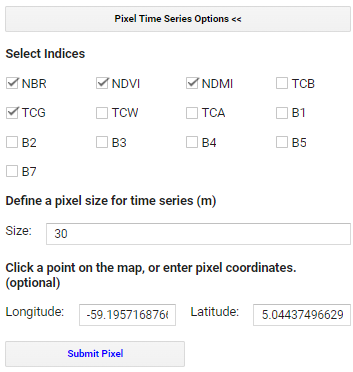
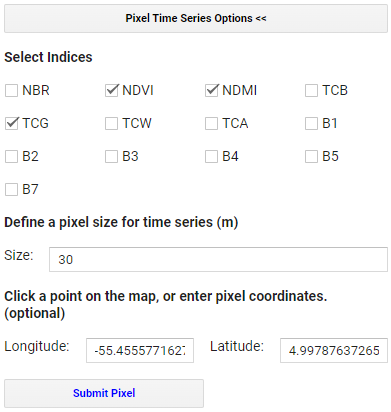
LandTrendr continued

diff --git a/change-detection-2/02_LandTrendrGUI.md b/change-detection-2/02_LandTrendrGUI.md
@@ -5,15 +5,15 @@ parent: "Advanced Google Earth Engine - Change Detection 2"
 nav_order: 2
 ---
 
-# TITLE HERE
+# Explore the LandTrendr GUI
 
 1. Go to the `SurinameWS` repository ([https://code.earthengine.google.com/?accept_repo=users/ebihari/SurinameWS](https://code.earthengine.google.com/?accept_repo=users/ebihari/SurinameWS)), and open the folder named **LandTrendr App - Suriname version**. 
 2. In this folder, open the script named **LandTrendr App - Data Visualization and Download**. 
 3. Run this script.  In a few seconds, the LandTrendr GUI should load right there in GEE.
 
-*Tip: A video showing basic orientation to the GUI is here: [https://youtu.be/tdpuxV7Ad8g](https://youtu.be/tdpuxV7Ad8g).*
-
 # LandTrendr GUI
+
+*Tip: A video showing basic orientation to the GUI is here: [https://youtu.be/tdpuxV7Ad8g](https://youtu.be/tdpuxV7Ad8g).*
 
 The LT GUI (graphical user interface) consists of three panels: 
 
@@ -25,4 +25,203 @@ The LT GUI (graphical user interface) consists of three panels:
 
 Using the expanding menus in the Control Panel, the user sets parameters for the LandTrendr runs, displays images and maps in the center panel, or generates charts in the reporting panel. Expanding windows are controlled by clicking on the double-arrows next to each heading:
 
-<img align="center" src="../images/change-detection-2/LT_optionsbutton.png" hspace="15" vspace="10" width="300">
+<img align="center" src="../images/change-detection-2/LT_dropdownbutton.png" hspace="15" vspace="10" width="300">
+
+# Set LandTrendr options
+
+*Tip: A video showing the LandTrendr options is here: [https://youtu.be/TNQOdHIg24s](https://youtu.be/TNQOdHIg24s).*
+
+You can update the input parameters for the algorithm by expanding the `LandTrendr Options` menu of the GUI.  Many of the values have been pre-set arbitrarily, but you can adjust them for your region. Full parameters descriptions are [here](https://github.com/wespestad/MRV/blob/9380035aff6fd7b65dc8b28bb28ae3e9f4deff3d/Modules_2/change_detection_landtrendr_v3.md#353-exploring-impacts-of-the-fitting-parameters).
+
+For example, after experimentation, TCW (Tasseled Cap Wetness) was found to be an index that works well in Nepal’s environments. 
+
+The date range choice is one of the more important choices in the LandTrendr implementation process. The user must balance the goal of using images in times of year when clear observations are most likely against the goal of finding the change of interest. 
+
+The index choice is also important, as this is what will be analyzed by LandTrendr to find changes.  Here is a description of the indices you can choose from:
+
+<img align="center" src="../images/change-detection-2/index_descriptions.png" hspace="15" vspace="10" width="700">
+
+Here are descriptions of some of the other parameters:
+
+* *Max Segments*: Set to 8. With about 30 possible years of data, eight segments is still appropriate, as it is well under the 3:1 ratio rule of thumb.
+
+* *Spike Threshold*: Keep at 0.9. This parameter can have some effect when there are noisy trajectories, but it may not need to be changed until after we view the impacts of changing the date range. Setting it to 1.0 allows all spikes to be kept, while lower values remove some sharp features that may be noise.
+
+* *Vertex Count Overshoot*: Keep at 3. This parameter rarely needs to change.
+
+* *Prevent One Year Recovery*: Set to "false". This is an aggressive parameter that does what it suggests - it prevents one-year recovery segments. However it is more generally useful to tune the recovery using the next parameter - the Recovery Threshold.
+
+* *Recovery Threshold*: Set to 0.5. Lower numbers disallow very quick recoveries, but in tropical regions quick vegetative recovery after disturbance is the norm. 0.5 is a moderate value and dampens the impacts of noise. A value of 1 would allow all details in the recovery pattern to be seen, but can also lead to overfitting of noise and artifacts.
+
+* *p-value Threshold*: Keep at 0.05. However, if we note that the fits are not tracking somewhat noisy source data, this value could  be relaxed to 0.15. Increasing the p-value threshold allows fits to be captured that retain more residual noise after fitting.
+
+* *Best model Proportion*: Keep at 0.75. When set to a value less than 1.0, this parameter allows more complicated fits to be chosen even if they do not have the best p-value. In practice, this parameter rarely has large impacts.
+
+* *Min Observations needed*: Keep at 6.
+
+* *Image IDs to exclude*: Leave blank unless you completed the optional High-Quality Landsaty Image selector tool.
+
+<img align="center" src="../images/change-detection-2/parameter_values.png" hspace="15" vspace="10" width="250">
+
+Set the `LandTrendr Options` parameters to the following:
+
+<img align="center" src="../images/change-detection-2/LandTrendrOptions.png" hspace="15" vspace="10" width="300">
+
+# Set Asset Overlay options
+
+First, we load a study area for the analysis. The LandTrendr algorithms are computationally intensive and take some time to run. For training purposes, it is useful to constrain our analysis to a relatively small geographic domain.
+
+If you want to add in your own AOI - in the Control Panel, select the `Asset Overlay Options` menu, and enter these values:
+
+1. In the first box of the `Define file path to an asset` section, enter the path to your AOI asset, or a smaller sample area.
+2. In the first box of the `Define Layer Name` section, enter a name that you will recognize when it appears in the layers of the map.
+3. Near the bottom, click the check-box that makes the first layer one to use to constrain later analyses.
+4. Click on the `Add asset to map`.
+
+Alternatively, you can draw a polygon or create a buffer around a point later in `RGB Change Options`.
+
+However, for this exercise, we will use the LandTrendr GUI to create an AOI around a point of interest in Suriname in `RGB Change Options`.  For now, leave `Asset Overlay Options` as is:
+
+<img align="center" src="../images/change-detection-2/AssetOverlayOptions.png" hspace="15" vspace="10" width="300">
+
+# Explore pixel-level time series
+
+*Tip: A video showing point mode operation is here: [https://youtu.be/RdQvxTbi37E](https://youtu.be/RdQvxTbi37E)*
+
+The simplest starting way to understand LandTrendr is to apply the algorithms in point mode. This allows you to visualize how LandTrendr fitting works, and how changing your settings can change the fit. 
+
+To access the point-mode (on the pixel level), open the `Pixel Time Series Options` menu. You should see a window something like this:
+
+<img align="center" src="../images/change-detection-2/LT_pixeloptions.png" hspace="15" vspace="10" width="400">
+
+You can either click on a point on the map and wait patiently, or type coordinates and then click on the `Submit Pixel` button. You can view charts for multiple indices at the same point by checking more than one `Select Indices` box.  
+
+Set the `Pixel Time Series Options` parameters to the following:
+
+<img align="center" src="../images/change-detection-2/PixelTimeSeriesOptions.png" hspace="15" vspace="10" width="300">
+
+Orient yourself to the layout and meaning of the components of the chart below. 
+
+<img align="center" src="../images/change-detection-2/LT_indexgraph.png" hspace="15" vspace="10" width="600">
+
+The core interpretation is the difference between the grey line and the red line.
+
+The grey line represents the trajectory of the observed (measured) spectral values for the pixel. The values are extracted from image collections with properties that define the date window and years of the collection.  We refer to these as the **"source"** spectral values. They bounce around from year to year because of subtle changes in the atmosphere, the timing of image acquisition, etc.
+
+The red line shows what the algorithms decided was the best temporal segmentation through those observed values. This is a function of the fitting parameters of the segmentation model. We refer to these as the **"fitted"** spectral values.
+
+The goal with these plots is to determine if:
+1. The trajectory of the source values captures the processes you believe are occuring at the surface
+2. The fitted values adequately capture the overall "shape" of the trajectory of the source values.
+
+<img align="center" src="../images/change-detection-2/LT_pixeloutput.png" hspace="15" vspace="10" width="300">
+
+As you can see, the differences between the different spectral indices are notable, as they respond to vegetation changes differently and some indices are better for detecting change in certain environments than others.
+
+# Explore RGB change composite images
+
+*Tip: A video showing the RGB tool is here: [https://youtu.be/VSeia3NRa3c](https://youtu.be/VSeia3NRa3c)*
+
+While the point mode is the only way to fully understand and evaluate the source and fitted values, it is an inefficient way to explore larger spatial patterns. We can happen upon pixels where the source values indicate a problem with the imagery, or where the fitting parameters are likely not chosen appropriately, but such findings happen by chance. It would be handy to have a quick visual tool to scan the landscape and evaluate trends and potential problems.
+
+The RGB visualization tool in the LandTrendr GUI is designed to quickly evaluate spatial patterns of spectral fitting by the algorithm. In this tool, we run LT across many pixels, and then show images of the LT-fitted values across pixels, with different years of fitted imagery in the red, green, and blue colors on the screen. With awareness of the years being displayed and the properties of the spectral values being rendered, it is possible to interpret spatial patterns in the RGB images in terms of their land cover change processes, or problems with the imagery or fitting.
+
+Open the `RGB Change Options` menu in the GUI. 
+
+<img align="center" src="../images/change-detection-2/LT_RGBoptions.png" hspace="15" vspace="10" width="600">
+
+This `RGB Change Options` section will be used later to calculate changes over time. The value for Red should be your first year of your time period of interest, Blue your last year, and Green somewhere in between. 
+
+Remember how we skipped the `Asset Overlay Options` and are actually creating an AOI from a buffer around a point of interest in Suriname. The point we have chosen in Suriname should already be loaded in the GUI in the `Latitude` and `Longitude` fields, with a 2.5km buffer to create the AOI in the `Buffer` field. Alternatively, you can draw a polygon by selecting `Draw Option`.
+
+Set the `RGB Change Options` parameters to the following. You can change these fields if you wish, but keep the AOI small to reduce processing time:
+
+<img align="center" src="../images/change-detection-2/RGBChangeOptions.png" hspace="15" vspace="10" width="300">
+
+Click on `Add RGB Imagery`, and wait patiently. It may take a minute to fully load the area we have chosen.  The Index selected in the `LandTrendr Options` menu will be what is shown in the RGB change image.
+
+<img align="center" src="../images/change-detection-2/LT_AOI.png" hspace="15" vspace="10" width="600">
+
+How do we interpret the colors? Following [additive color theory](https://en.wikipedia.org/wiki/Additive_color), we can figure out when disturbance and recovery occured between our three years of interest.
+
+Let's assume we are working with an index such as NBR, TCW, or NDVI where high values indicate more vegetation and low values indicate less vegetation. First, let's consider an area with no colors - an area that is black, white or some grey tone in between. If an area is some shade of black to white, it means that the trajectory of spectral values is stable across the years. In the schematic below, the black horizontal lines are three different pixel trajectories, all perfectly flat (i.e. stable across time):
+
+<img align="center" src="../images/change-detection-2/RGB_spectralindex1.png" hspace="15" vspace="10" width="600">
+
+A couple of other variants are commonly seen and worth learning:
+
+**Yellow/Green pixel:**
+
+If there was a disturbance between the green and blue years, that means the index will be high in both red and green values, but low in blue. This would result in a yellow color on the map.
+
+<img align="center" src="../images/change-detection-2/RGB_spectralindex2.png" hspace="15" vspace="10" width="600">
+
+**Red pixel:**
+
+If the disturbance occurred before the green year and did not see much recovery by the blue year, we would have high values mostly in red, resulting in a red color on the map.
+
+<img align="center" src="../images/change-detection-2/RGB_spectralindex3.png" hspace="15" vspace="10" width="600">
+
+**Purple pixel:**
+
+If the disturbance occurred before the green and there was recovery by the time of the blue year, we would have high values in both red and blue, making some shade of purple or magenta on the map.
+
+<img align="center" src="../images/change-detection-2/RGB_spectralindex4.png" hspace="15" vspace="10" width="600">
+
+**Cyan pixel:**
+
+If an area sees consistent growth in vegetation across all years, it will have relatively low red, higher green, and highest blue values, making some shade of cyan or blue on the map.
+
+<img align="center" src="../images/change-detection-2/RGB_spectralindex5.png" hspace="15" vspace="10" width="600">
+
+**Brown/Orange pixel:**
+
+If there is persistent decline in vegetation over the full time period, red will be highest, followed by green and then blue,  making some shade of brown or orange on the map.
+
+<img align="center" src="../change-detection-2/RGB_spectralindex6.png" hspace="15" vspace="10" width="600">
+
+# Interpret color from RGB change images using the pixel-level time series
+
+These color rules can be somewhat abstract until you see them in action. The LandTrendr GUI gives us the chance to do that: use the RGB color map to select pixels and plot them in the pixel-level mode. First, double check that your RGB image has loaded into the map view. Then, on the Control menu on the left, re-select the `Pixel Time Series Options` menu. As a reminder, the index selected in the `LandTrendr Options` menu will be what is shown in the RGB change image, but you can select any index to show alongside the map in the pixel-level time series.
+
+Now, you can click around in the RGB image to see what pixels look like in different areas of the image.  This use of the RGB viewer combined with the pixel-plotter helps us assess both spatial and temporal patterns. 
+
+The exact colors present on the RGB map will not always mean the same exact thing, since they capture the relative values of the indeces in the 3 years of interest.  You need to look at how the individual pixels change over time to get more a better idea of exactly when changes occured and how drastic they were.
+
+Clicking on different colored pixels, try to look at the index trajectories and create a narrative for what could have happened during the time periods of interest.  For example, when/where was forest cleared, when/where was forest left to grow, and when/where may have other more complex land use changes happened (e.g. forest was cleared for a crop which was later harvested)?  Also look at the overall patterns you see - it is pretty clear where forest clearing began and expanded to, and where regrowth or planting happened after forest clearing.
+
+**Yellow/Green pixel:**
+
+<img align="center" src="../images/change-detection-2/LT_RGBpixel_greenexample.png" hspace="15" vspace="10" width="600">
+
+**Red pixel:**
+
+<img align="center" src="../images/change-detection-2/LT_RGBpixel_redexample.png" hspace="15" vspace="10" width="600">
+
+**Purple pixel:**
+
+<img align="center" src="../images/change-detection-2/LT_RGBpixel_purpleexample.png" hspace="15" vspace="10" width="600">
+
+**Cyan pixel:**
+
+<img align="center" src="../images/change-detection-2/LT_RGBpixel_cyanexample.png" hspace="15" vspace="10" width="600">
+
+**Brown/Orange pixel:**
+
+<img align="center" src="../images/change-detection-2/LT_RGBpixel_brownexample.png" hspace="15" vspace="10" width="600">
+
+Here, the spatial patterns of the disturbance areas are consistent with the underlying landscape pattern, lending credibility to the detection of actual change. Moreover, the source data in the pixel trajectories, while noisy, appear to be consistent with the signal of disturbance.
+
+# Identify problems in the data
+
+*You may, however, see problems with the data - for example, areas where there is a fair amount of purple "striping". The following image is an example from another AOI displaying NBR index charts with such striping.*
+
+<img align="center" src="../images/change-detection-2/LT_RGBgraph.png" hspace="15" vspace="10" width="600">
+
+*Examining only the top and bottom spectral trajectories, the source imagery appears to show drops in spectral value that are persistent over more than one year and may appear to be real. However, with the RGB viewer, we can see that the spatial pattern is disjunct with the underlying landscape (not shown in the figure above, but it is forested). Moreover, the pattern of disturbance appears to be regular and horizontally linear.*
+
+*The spatial pattern of these artifacts is suggestive of the Landsat 7 scan line error pattern - a problem where roughly-horizontal slices of the Landsat 7 imagery are not recorded. Note that the problem is not, in fact, with the Landsat 7 images, but the fact that they have no data in these areas and are allowing an underlying Landsat 8 or Landsat 5 image with cloud problems to show through! Nevertheless, the summary interpretation here is that this region has persistent cloudiness that is not being captured by the default cloud mask algorithms. Hovering over the chart itself and examining the grey source data, you can inspect which years of data are missing. Data is often be missing when clouds are present.*
+
+*What is the solution? The key thing to realize here is that the persistent cloudiness is happening within the window of the season that we are using to build the image collections! Thus, the best option is to examine and change the window of time for the image collections.*
+
+We now finished exploring the functionalities of LandTrendr.  Continue to the next section for exporting and evaluating map products from LandTrendr.

diff --git a/change-detection-2/04_Challenges.md b/change-detection-2/04_Challenges.md
@@ -1,0 +1,6 @@
+---
+layout: page
+title: Challenges
+parent: "Advanced Google Earth Engine - Change Detection 2"
+nav_order: 4
+---
